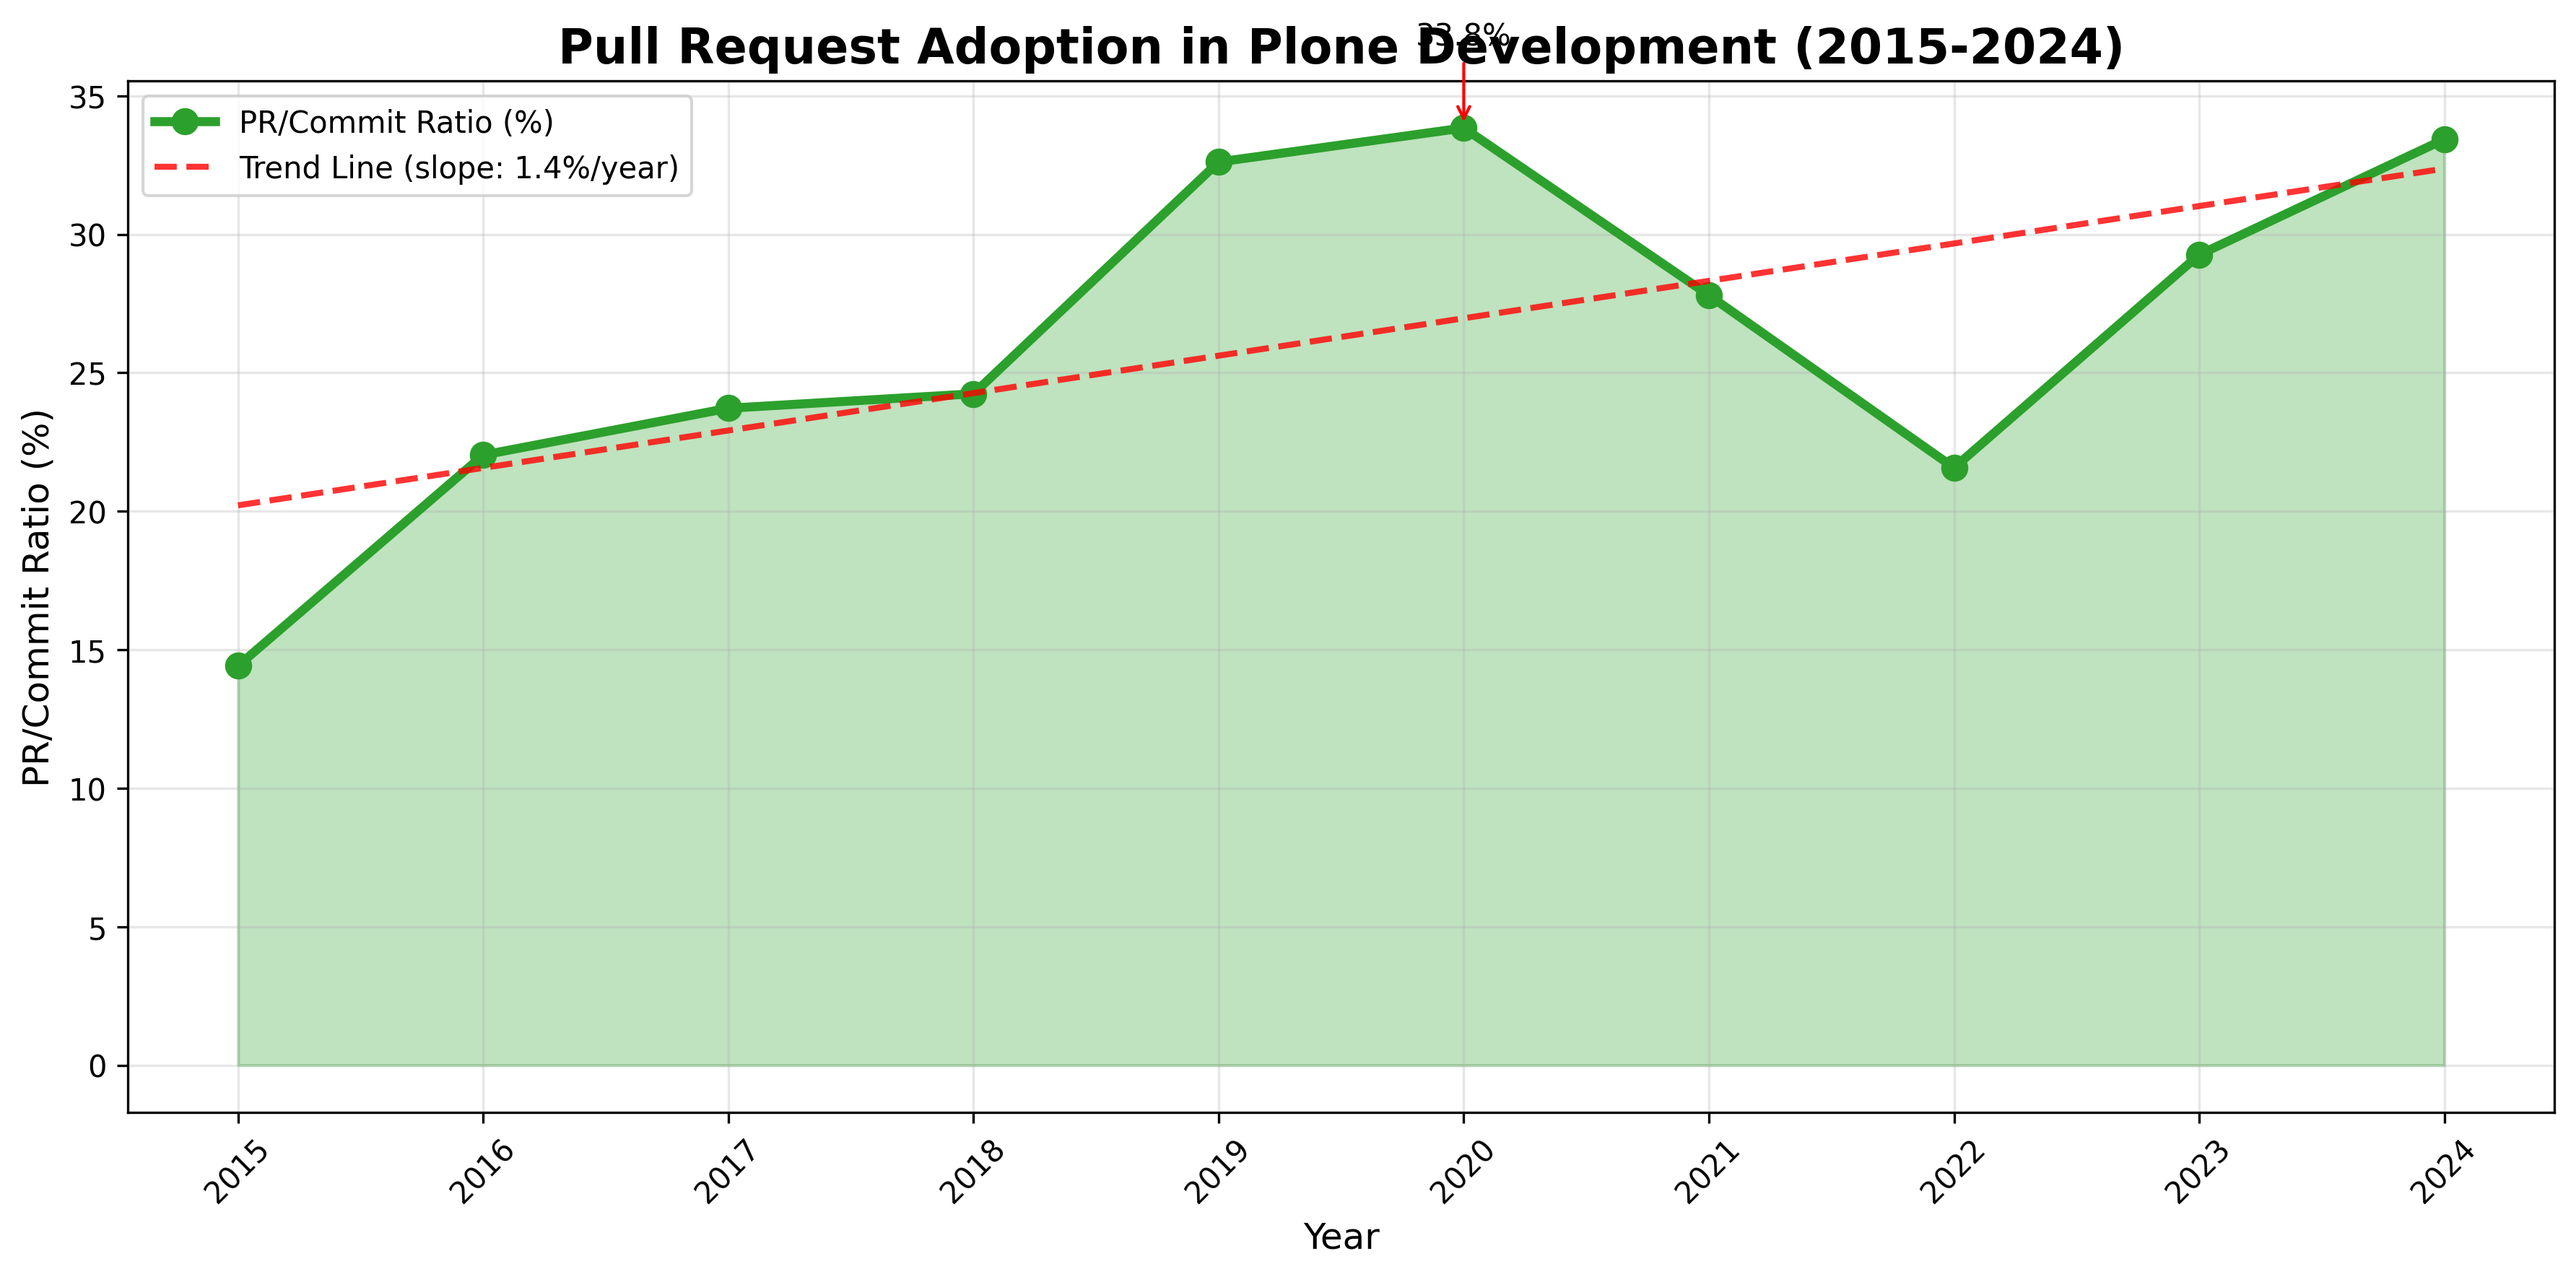
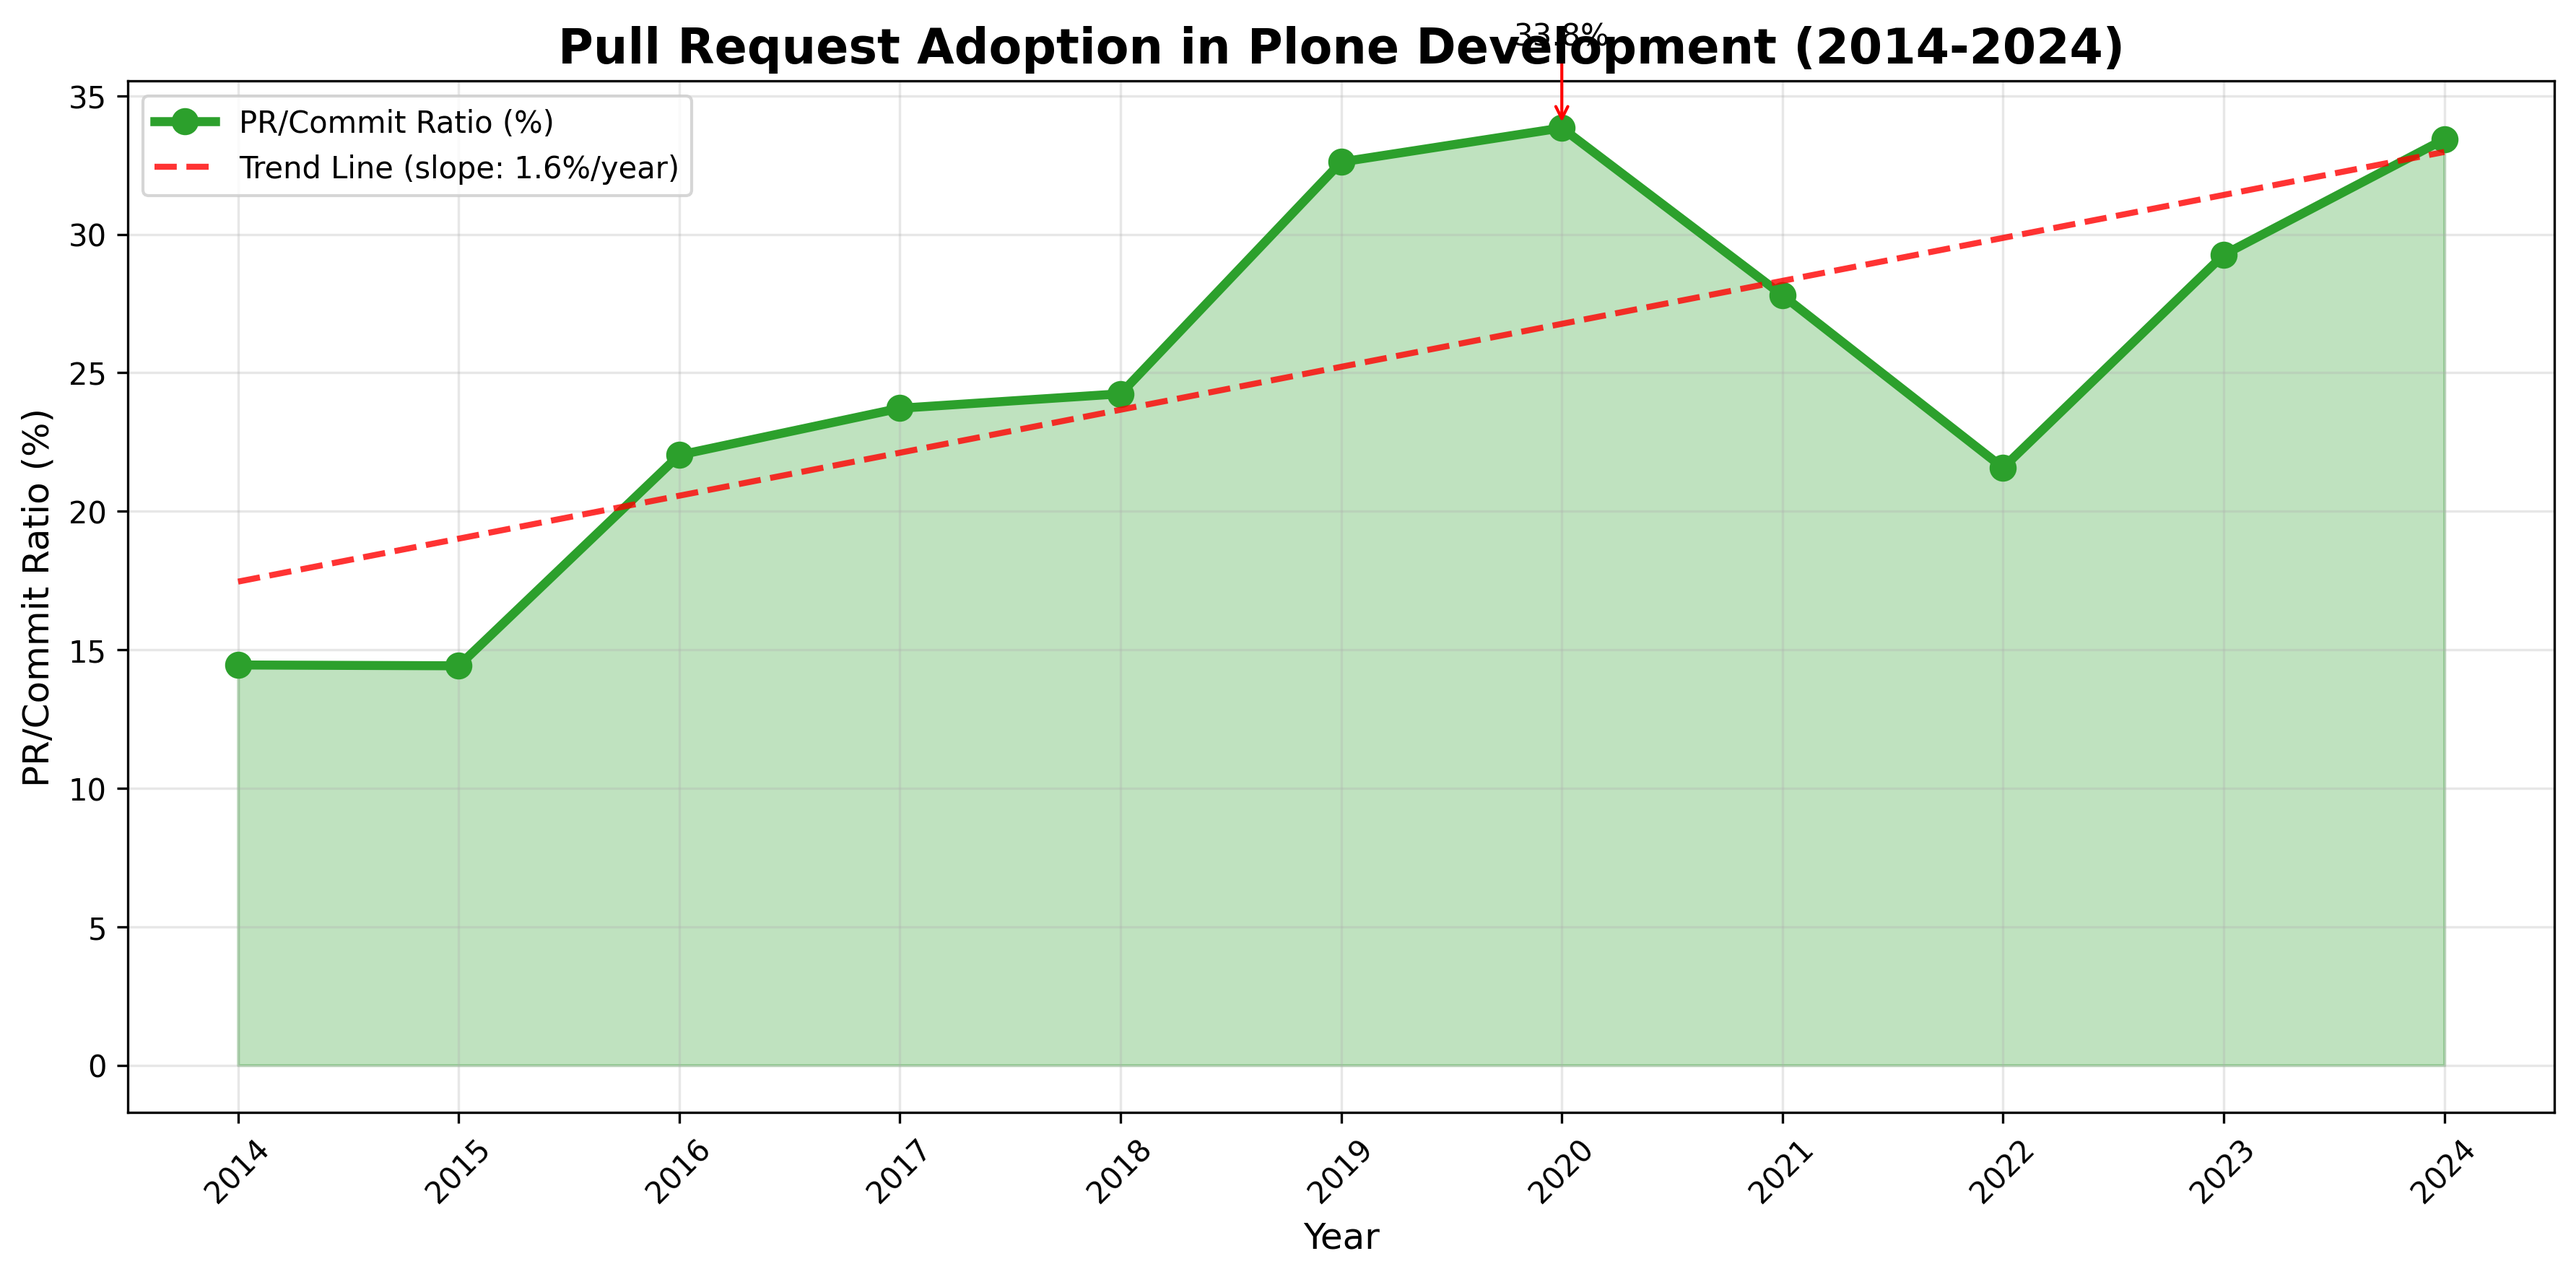
Add 2024 to graphs, make them prettier and add important milestones to the graphs

diff --git a/generate_yearly_graphs.py b/generate_yearly_graphs.py
@@ -57,6 +57,9 @@ def load_yearly_data():
     df = pd.read_csv(csv_file)
     df['year_date'] = pd.to_datetime(df['year'], format='%Y')
     
+    # Filter to only include years 2014-2024
+    df = df[(df['year'] >= 2014) & (df['year'] <= 2024)]
+    
     return df
 
 
@@ -72,7 +75,7 @@ def create_commits_trend_graph(df, output_dir="graphs"):
     ax.fill_between(df['year'], df['total_commits'], alpha=0.3, color='#1f77b4')
     ax.set_ylabel('Total Commits', fontsize=14)
     ax.set_xlabel('Year', fontsize=14)
-    ax.set_title('Plone Ecosystem - Commits Over Time (2015-2024)', fontsize=16, fontweight='bold')
+    ax.set_title('Plone Ecosystem - Commits Over Time (2014-2024)', fontsize=16, fontweight='bold')
     ax.grid(True, alpha=0.3)
     ax.legend(fontsize=12)
     
@@ -109,16 +112,6 @@ def create_commits_trend_graph(df, output_dir="graphs"):
                        fontsize=10, ha='left', fontweight='bold',
                        color=milestone_color)
     
-    # Add annotations for key points
-    max_commits_idx = df['total_commits'].idxmax()
-    max_year = df.loc[max_commits_idx, 'year']
-    max_commits = df.loc[max_commits_idx, 'total_commits']
-    
-    ax.annotate(f'{max_commits:,.0f}', 
-                xy=(max_year, max_commits), 
-                xytext=(max_year, max_commits + max_commits * 0.05),
-                arrowprops=dict(arrowstyle='->', color='red'),
-                fontsize=12, ha='center', fontweight='bold')
     
     plt.tight_layout()
     
@@ -141,7 +134,7 @@ def create_prs_trend_graph(df, output_dir="graphs"):
     ax.fill_between(df['year'], df['total_pull_requests'], alpha=0.3, color='#ff7f0e')
     ax.set_ylabel('Total Pull Requests', fontsize=14)
     ax.set_xlabel('Year', fontsize=14)
-    ax.set_title('Plone Ecosystem - Pull Requests Over Time (2015-2024)', fontsize=16, fontweight='bold')
+    ax.set_title('Plone Ecosystem - Pull Requests Over Time (2014-2024)', fontsize=16, fontweight='bold')
     ax.grid(True, alpha=0.3)
     ax.legend(fontsize=12)
     
@@ -184,16 +177,6 @@ def create_prs_trend_graph(df, output_dir="graphs"):
                        fontsize=10, ha='left', fontweight='bold',
                        color=milestone_color)
     
-    # Add annotations for key points
-    max_prs_idx = df['total_pull_requests'].idxmax()
-    max_year = df.loc[max_prs_idx, 'year']
-    max_prs = df.loc[max_prs_idx, 'total_pull_requests']
-    
-    ax.annotate(f'{max_prs:,.0f}', 
-                xy=(max_year, max_prs), 
-                xytext=(max_year, max_prs + max_prs * 0.05),
-                arrowprops=dict(arrowstyle='->', color='red'),
-                fontsize=12, ha='center', fontweight='bold')
     
     plt.tight_layout()
     
@@ -215,7 +198,7 @@ def create_commits_prs_trend_graph(df, output_dir="graphs"):
              color='#1f77b4', label='Commits')
     ax1.fill_between(df['year'], df['total_commits'], alpha=0.3, color='#1f77b4')
     ax1.set_ylabel('Total Commits')
-    ax1.set_title('Plone Ecosystem Development Activity (2015-2024)', fontsize=16, fontweight='bold')
+    ax1.set_title('Plone Ecosystem Development Activity (2014-2024)', fontsize=16, fontweight='bold')
     ax1.grid(True, alpha=0.3)
     ax1.legend()
     
@@ -291,7 +274,7 @@ def create_pr_adoption_graph(df, output_dir="graphs"):
     
     ax.set_ylabel('PR/Commit Ratio (%)')
     ax.set_xlabel('Year')
-    ax.set_title('Pull Request Adoption in Plone Development (2015-2024)', 
+    ax.set_title('Pull Request Adoption in Plone Development (2014-2024)', 
                 fontsize=16, fontweight='bold')
     ax.grid(True, alpha=0.3)
     ax.legend()
@@ -339,7 +322,7 @@ def create_ecosystem_growth_graph(df, output_dir="graphs"):
              color='#d62728', label='Contributors')
     ax1.fill_between(df['year'], df['total_contributors'], alpha=0.3, color='#d62728')
     ax1.set_ylabel('Total Contributors')
-    ax1.set_title('Plone Ecosystem Growth Metrics (2015-2024)', fontsize=16, fontweight='bold')
+    ax1.set_title('Plone Ecosystem Growth Metrics (2014-2024)', fontsize=16, fontweight='bold')
     ax1.grid(True, alpha=0.3)
     ax1.legend()
     
@@ -394,7 +377,7 @@ def create_growth_rates_heatmap(df, output_dir="graphs"):
     sns.heatmap(growth_data, annot=True, fmt='.1f', cmap='RdYlGn', center=0, 
                 ax=ax, cbar_kws={'label': 'Growth Rate (%)'})
     
-    ax.set_title('Year-over-Year Growth Rates in Plone Development (2016-2024)', 
+    ax.set_title('Year-over-Year Growth Rates in Plone Development (2015-2024)', 
                 fontsize=16, fontweight='bold')
     ax.set_xlabel('Year')
     ax.set_ylabel('Metric')
@@ -419,7 +402,7 @@ def create_productivity_metrics_graph(df, output_dir="graphs"):
              color='#17becf', label='Commits per Contributor')
     ax1.fill_between(df['year'], df['commits_per_contributor'], alpha=0.3, color='#17becf')
     ax1.set_ylabel('Commits per Contributor')
-    ax1.set_title('Developer Productivity Metrics (2015-2024)', fontsize=16, fontweight='bold')
+    ax1.set_title('Developer Productivity Metrics (2014-2024)', fontsize=16, fontweight='bold')
     ax1.grid(True, alpha=0.3)
     ax1.legend()
     
@@ -517,7 +500,7 @@ def create_combined_overview_graph(df, output_dir="graphs"):
         ax.set_xticklabels(years, rotation=45)
     
     # Main title
-    fig.suptitle('Plone Ecosystem Development Overview (2015-2024)', 
+    fig.suptitle('Plone Ecosystem Development Overview (2014-2024)', 
                 fontsize=18, fontweight='bold', y=0.98)
     
     output_file = f"{output_dir}/yearly_activity_overview.png"

diff --git a/DATA-TRENDS.md b/DATA-TRENDS.md
@@ -1,0 +1,60 @@
+# Data Trends (according to Claude Code AI)
+
+Looking at the 2014-2024 data range, I can identify several significant trends in Plone's development ecosystem:
+
+Commit Activity Patterns
+
+Major Development Cycles:
+
+- 2014-2015: Dramatic surge from 6,085 to 12,593 commits (+106.9%) - the largest growth in the dataset
+- 2015 Peak: Highest commit activity (12,593) coinciding with Plone 5 release - major architectural overhaul
+- 2016-2019: Steady decline (8,974 → 5,541 commits) - post-release stabilization and focus shift
+- 2020-2021: Gradual recovery (5,745 → 6,838 commits) - renewed development momentum
+- 2022 Resurgence: Second major peak (11,633 commits, +70.1% growth - Plone 6 and Volto integration
+- 2023-2024: Sharp decline (8,885 → 5,992) - typical post-major-release pattern
+
+Pull Request Evolution
+
+Adoption Timeline:
+
+- 2014: Only 879 PRs (14.4% of commits) - early GitHub workflow adoption
+- 2015-2018: Steady growth to 2,221 PRs with increasing PR/commit ratios
+- 2019: Notable dip to 1,807 PRs despite workflow maturation
+- 2022-2023: Peak PR activity (2,509 → 2,600) - modern development practices fully established
+- PR/Commit Ratio: Consistent upward trend from 14% (2014) to 33% (2024)
+- indicating shift toward collaborative development
+
+Development Pattern Analysis
+
+Release-Driven Development:
+
+1. Pre-release surge - massive development activity before major releases
+2. Post-release decline - focus shifts to bug fixes and maintenance
+3. Innovation periods - gradual buildup to next major version
+
+Modernization Milestones:
+
+- 2015 (Plone 5): Backend modernization, new theme framework, resource bundling
+- 2018 (Volto/REST API): Frontend architecture revolution, React adoption
+- 2022 (Plone 6): Full decoupled CMS with React frontend as default
+
+Ecosystem Health Indicators
+
+Positive Trends:
+
+- Consistent PR adoption - growing collaborative development culture
+- Sustained innovation cycles - regular major releases every ~4-7 years
+- Technology modernization - successful transitions to modern frameworks
+
+Development Efficiency:
+
+- Quality over quantity - lower commit volumes but higher PR ratios
+  suggest more thoughtful development
+- Community maturation - established review processes and contribution
+  workflows
+- Architectural evolution - successful migration from monolithic to
+  decoupled architecture
+
+The data reveals Plone as a mature project with distinct development
+cycles driven by major architectural innovations, showing healthy
+adaptation to modern development practices while maintaining long-term stability.
